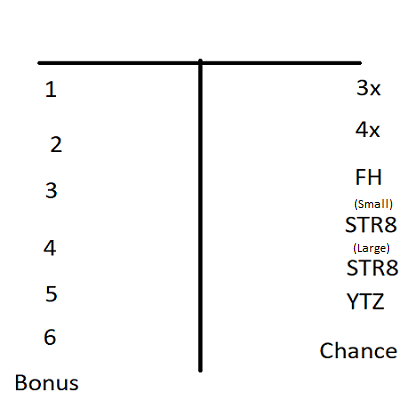
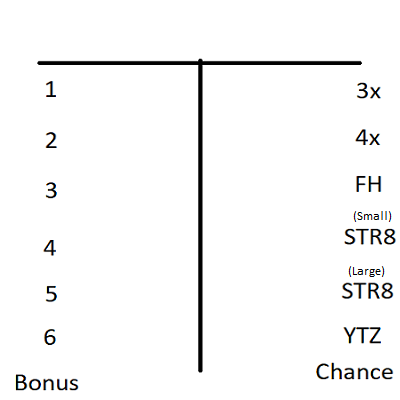
added level 0 ai, adjusted visuals

diff --git a/Yahtzee.py b/Yahtzee.py
@@ -4,6 +4,8 @@ import random
 import sys
 import Player
 from collections import Counter
+import time
+import AiFuncs
 
 def rerollDice(dice, selectedDice, freshDice = False):
     if freshDice == True:
@@ -14,6 +16,28 @@ def rerollDice(dice, selectedDice, freshDice = False):
         if not selectedDice[i]:
             dice[i] = random.randint(1, 6)
 
+def drawPlayerScores(playerObj, key, value, turnCheck = False):
+    if not turnCheck: #if not  player's turn, draw only true scores, otherwise draw all 
+        if playerObj.scores[key][1] == 1:    
+            drawScores(playerObj, key, value)
+    else:
+        drawScores(playerObj, key, value)
+
+def drawScores(playerObj, key, value):
+    textColor = getScoreColor(playerObj.scores[key][1])
+    scoreText = scoreFont.render(str(playerObj.scores[key][0]), True, textColor)
+    if(len(str(playerObj.scores[key][0])) == 1):
+        screen.blit(scoreText, (value[0]+4, value[1]))
+    else:
+        screen.blit(scoreText, (value[0]-2, value[1]))
+    
+def getScoreColor(locked):
+    color = None
+    if locked:
+        color = "Black"
+    else:
+        color = "lightyellow"
+    return color
 
 def getBorderColor(selected):
     color = None
@@ -24,31 +48,38 @@ def getBorderColor(selected):
 
     return color        
 
-def getTextColor(scoreFlag):
-    color = None
-    if scoreFlag:
-        color = "Black"
-    else:
-        color = "deepskyblue"
-
-    return color        
-
-
-player1ScoreCords = {
-            "1s": [589, 96],
-            "2s": [589, 156],
-            "3s": [582, 208],
-            "4s": [577, 260],
-            "5s": [578, 306],
-            "6s": [580, 340],
-            "ThreeOAK": [682, 95],
-            "FourOAK": [682, 139],
-            "fullhse": [675, 183],
-            "sstr8": [675, 232],
-            "lstr8": [666, 278],
-            "yahtzee": [665, 314],
-            "chance": [675, 359]
+     
+playerScoreCords = {
+            "1s": [570, 90],
+            "2s": [570, 140],
+            "3s": [570, 190],
+            "4s": [570, 240],
+            "5s": [570, 290],
+            "6s": [570, 330],
+            "ThreeOAK": [660, 90],
+            "FourOAK": [660, 140],
+            "fullhse": [660, 190],
+            "sstr8": [660, 240],
+            "lstr8": [660, 290],
+            "yahtzee": [660, 330],
+            "chance": [660, 370]
 }
+botScoreCords = {
+            "1s": [605, 90],
+            "2s": [605, 140],
+            "3s": [605, 190],
+            "4s": [605, 240],
+            "5s": [605, 290],
+            "6s": [605, 330],
+            "ThreeOAK": [695, 90],
+            "FourOAK": [695, 140],
+            "fullhse": [695, 190],
+            "sstr8": [695, 240],
+            "lstr8": [695, 290],
+            "yahtzee": [695, 330],
+            "chance": [695, 370]
+}
+
 
 
 pygame.init()
@@ -72,14 +103,51 @@ for i in range(0, 5):
     dice.append(random.randint(1,6))
 
 
-player1 = Player.Player()
+player = Player.Player()
+bot = Player.Player()
+playerScore = 0
+botScore = 0
+playerBonus = 0
+botBonus = 0
+
 rerollNum = 2
+playerTurn = True
+
 while running:
     screen.fill("lightgray")
+    flag = False #check to see if any score values are unlocked/equal False
+    for val in player.scores.values():
+        if val[1] == False:
+            flag = True
+
+    for val in bot.scores.values():
+        if val[1] == False:
+            flag = True
+
+    if flag == False:
+        print("Your final score is: " +str(playerScore))
+        print("The bot's final score is "+str(botScore))
+        time.sleep(5)
+        running = False
+        
+    if playerTurn == False:
+        botChoice = AiFuncs.getLevelZeroChoice(rerollNum, bot)
+        time.sleep(1.5)
+        if botChoice == "reroll":
+            rerollDice(dice, selectedDie)
+            rerollNum -= 1
+        else:
+            botScore+= bot.scores[botChoice][0]
+            bot.lockScore(botChoice)
+            rerollDice(dice, selectedDie, freshDice=True)
+            rerollNum = 2
+            playerTurn = True
+                   
     for event in pygame.event.get():
-        if event.type == pygame.QUIT:
-            running = False
-        elif event.type  == pygame.MOUSEBUTTONDOWN:
+        
+        if event.type == pygame.QUIT: 
+            running = False      
+        elif event.type  == pygame.MOUSEBUTTONDOWN and playerTurn == True:
             if event.button == 1:
                 if buttonArea.collidepoint(event.pos) and rerollNum > 0:
                     rerollDice(dice, selectedDie)
@@ -90,13 +158,15 @@ while running:
                             selectedDie[i] = True
                         else:
                             selectedDie[i] = False 
-                for key, value in player1ScoreCords.items():
-                    scoreArea = pygame.Rect(value[0]-5, value[1]-5, 35, 35)
+                for key, value in playerScoreCords.items():
+                    scoreArea = pygame.Rect(value[0]-5, value[1]-5, 30, 30)
                     if scoreArea.collidepoint(event.pos):
-                        if player1.scores[key][1] == False:
-                            player1.lockScore(key)
+                        if player.scores[key][1] == False:
+                            playerScore += player.scores[key][0] 
+                            player.lockScore(key)
                             rerollDice(dice, selectedDie, freshDice=True)
                             rerollNum = 2
+                            playerTurn = False
 
     for i in range(0, 5):
         text_surface = my_font.render(str(dice[i]), False, (0, 0, 0))
@@ -105,8 +175,6 @@ while running:
         pygame.draw.rect(screen, color, pygame.Rect(diceXCords[i]-3, diceYCord-3, 162, 162)) 
         diceImg = pygame.image.load("assets/dice" +str(dice[i])+ ".png")
         screen.blit(diceImg, (diceXCords[i], diceYCord))
-        
-
 
     rerollDisplay = scoreFont.render("You have " +str(rerollNum)+ " rerolls left", True, (0, 0, 0))
     screen.blit(rerollDisplay, (37, 475))
@@ -118,21 +186,41 @@ while running:
     pygame.draw.rect(screen, "Black", pygame.Rect(340-3, 430-3, 606, 106))
     pygame.draw.rect(screen, "gray79", buttonArea)
 
-    player1.resetValues()
-    player1.updateScores(dice)
-
-    for key, value in player1ScoreCords.items():
-        textColor = getTextColor(player1.scores[key][1])
-        scoreText = scoreFont.render(str(player1.scores[key][0]), True, textColor)
-        screen.blit(scoreText, (value[0], value[1]))
+    player.resetValues()
+    player.updateScores(dice)
+    
+    bot.resetValues()
+    bot.updateScores(dice)
 
 
+    for key, value in playerScoreCords.items():
+        pygame.draw.rect(screen, "cornflowerblue", pygame.Rect(value[0]-5, value[1]-5, 30, 30))
+        drawPlayerScores(player, key, value, turnCheck=playerTurn)
+
+
+    for key, value in botScoreCords.items():
+        pygame.draw.rect(screen, "red", pygame.Rect(value[0]-5, value[1]-5, 30, 30))
+        drawPlayerScores(bot, key, value, turnCheck= not playerTurn)
+
+
+    playerDisplay = scoreFont.render("Your score is "+str(playerScore), True, (0, 0, 0))
+    screen.blit(playerDisplay, (37, 200))
+    botDisplay = scoreFont.render("The bot's score is "+str(botScore), True, (0, 0, 0))
+    screen.blit(botDisplay, (37, 300))
+
+    #bonusText = scoreFont.render(str(playerScore) + "/63", True, (0, 0, 0))
+    #screen.blit(bonusText, (572, 380))
+
+
+    if playerTurn == False:
+        turnDisplay = scoreFont.render("It is currently the bot's turn.", True, (0, 0, 0))
+    else:
+        turnDisplay = scoreFont.render("It is currently your turn.", True, (0, 0, 0))
+    screen.blit(turnDisplay, (900, 300))
 
 
     buttonText = my_font.render("Click to Reroll", True, (0, 0, 0))
     screen.blit(buttonText, (450, 435)) 
-
-
 
     pygame.display.flip()
 

diff --git a/AiFuncs.py b/AiFuncs.py
@@ -1,0 +1,15 @@
+import random
+import Player
+def getLevelZeroChoice(rerolls, botObj):
+    decision = random.randint(0, 1)
+    if decision == 0 and rerolls > 0:
+        return "reroll"
+    else:
+        nonLockedScores = []
+        for key in botObj.scores.keys():
+            if botObj.scores[key][1] == False:
+                nonLockedScores.append(key)
+        
+        return random.choice(nonLockedScores)
+
+            
